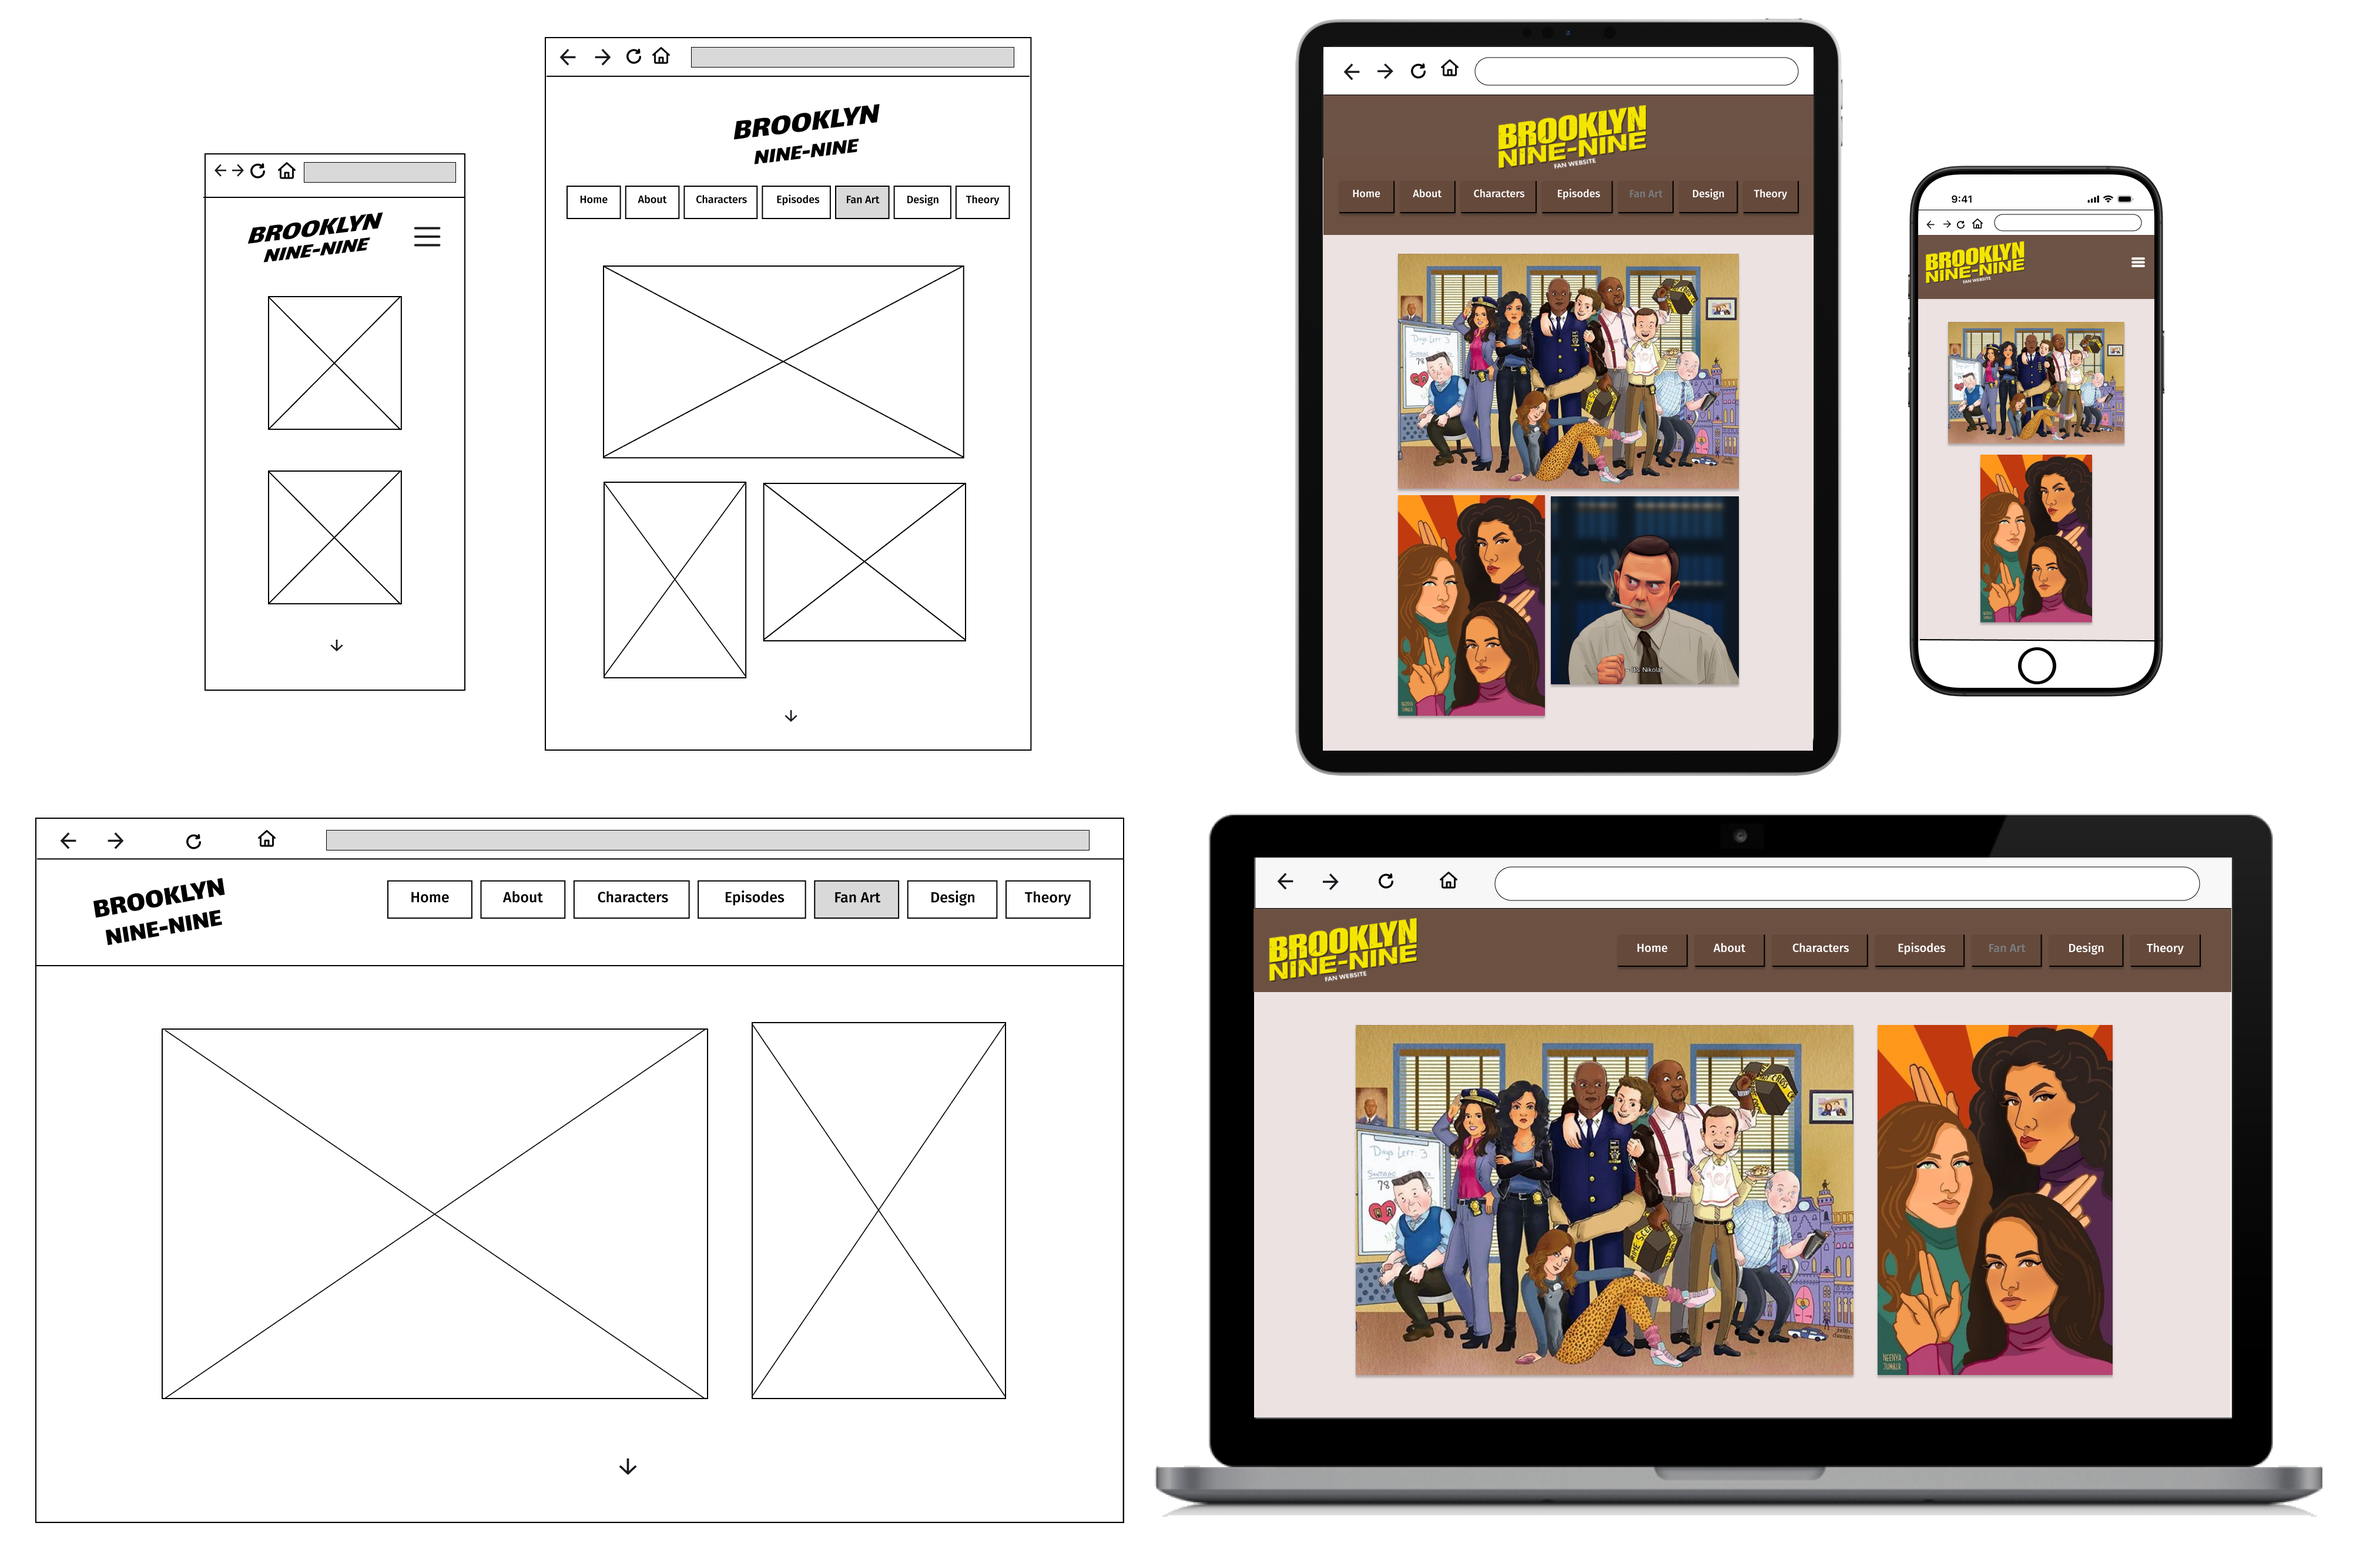
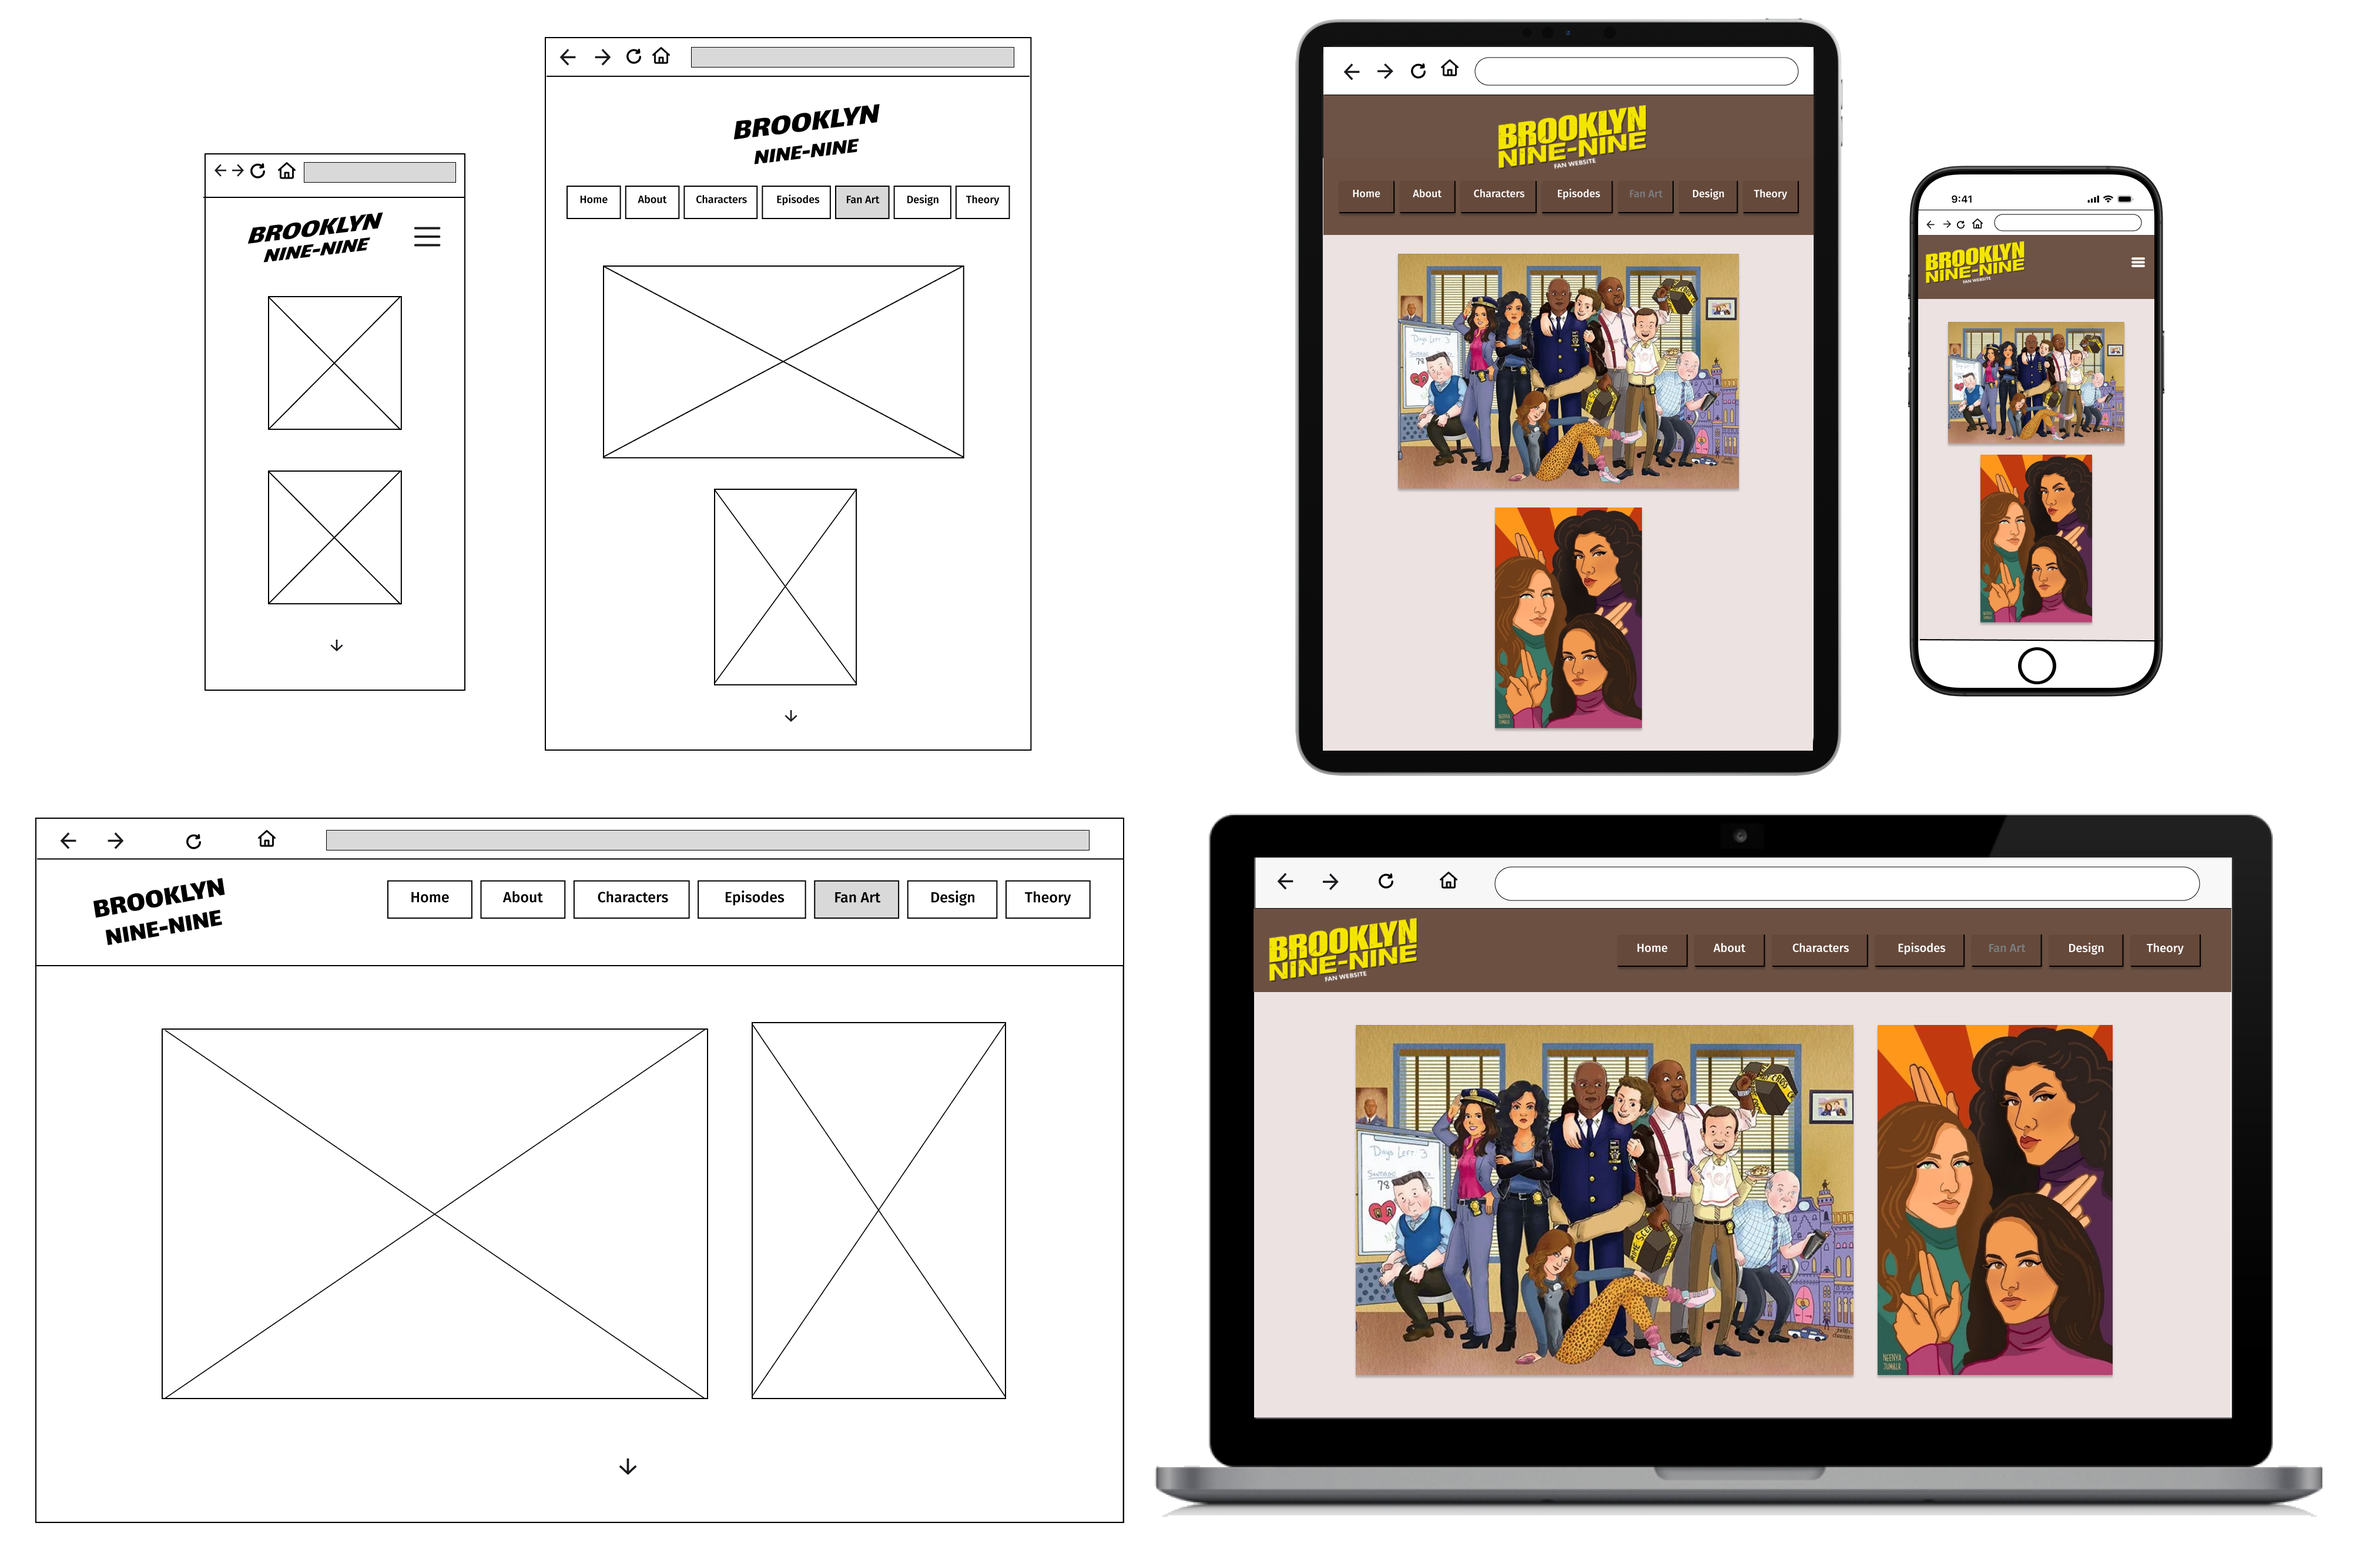
Fan Art Page Responsive

Changed region(s): [[0.5932, 0.3101, 0.7493, 0.4962], [0.3122, 0.3722, 0.3434, 0.4032], [0.3122, 0.3101, 0.3434, 0.3411]]

diff --git a/styles/fan-art.css b/styles/fan-art.css
@@ -137,4 +137,15 @@ main{
     header{
         height: 20rem;
     }
+
+    .art{
+        display: block;
+    }
+
+    .art img{
+        width: 100%;
+        height: 100%;
+        margin-left: 0rem;
+    }
+
 }
